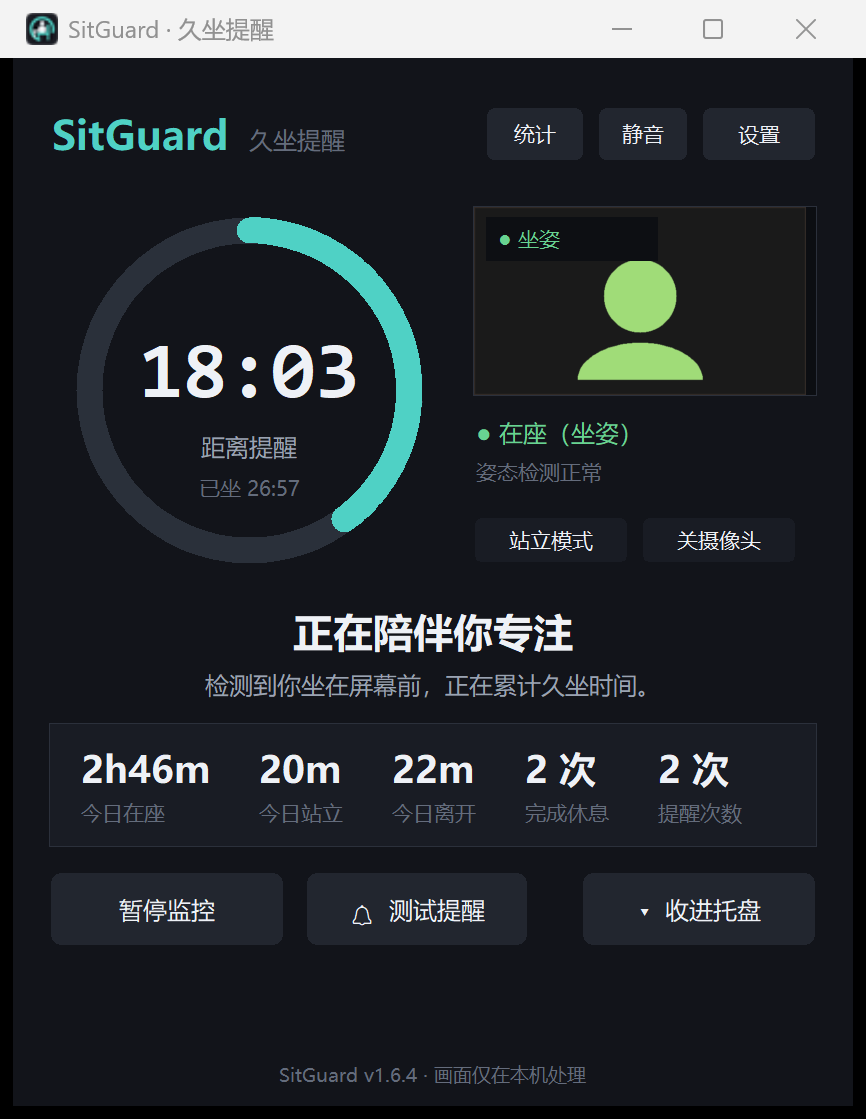
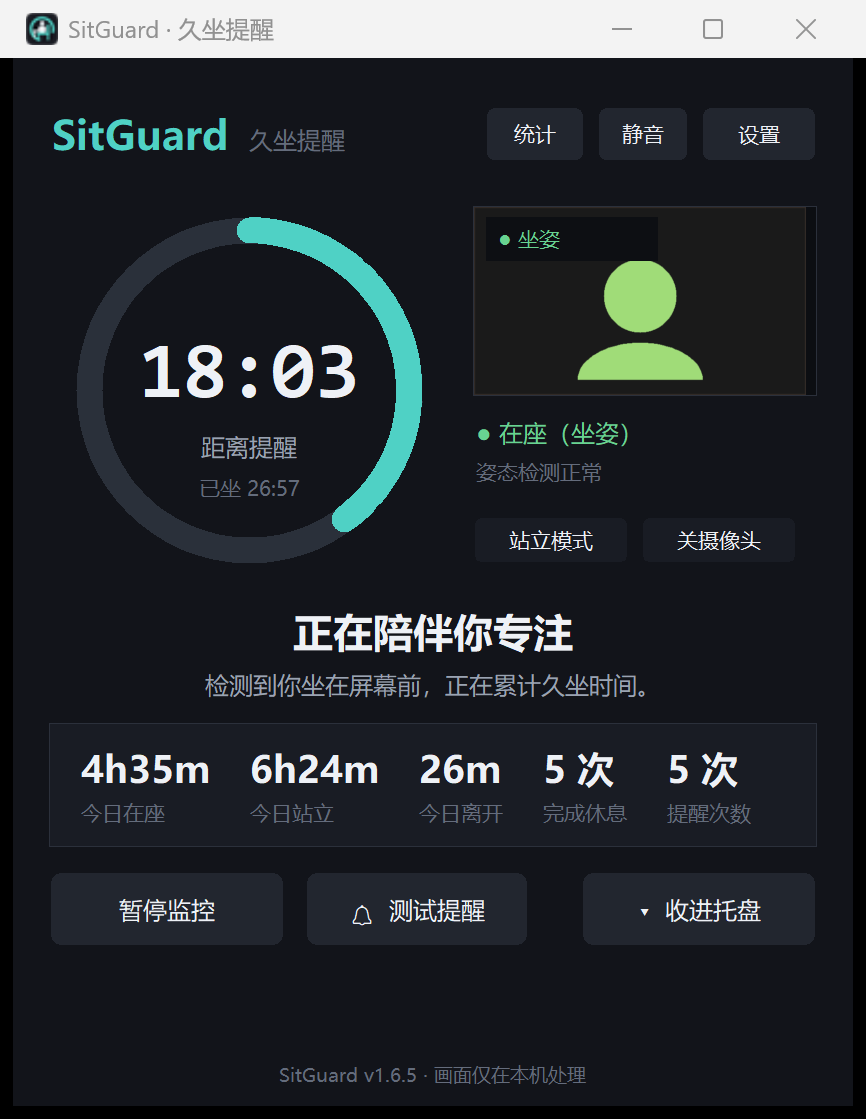
fix: leaving/looking down no longer counted as standing; repair history list on reopen
Require head or shoulder evidence before accepting a standing classification when calibrated, disable the out-of-frame standing grace unless standing calibration is out of frame, and keep the day list populated when the history window is closed and reopened.

diff --git a/sitguard/posture.py b/sitguard/posture.py
@@ -250,8 +250,11 @@ class PostureAnalyzer:
 
         candidate, reason = self._decide(now, pose, profile, face_present, person_present)
 
-        # 站起来后很快离开画面：给 20 秒“站立”宽限
-        if candidate == "unknown" and not face_present:
+        # 站起来后很快离开画面：仅在“未校准”或“站姿校准为离开画面”时给宽限。
+        # 站姿档案可见时，离开画面应判为 unknown/away，而不是站立。
+        if (candidate == "unknown" and not face_present
+                and (self.standing_profile is None
+                     or not self.standing_profile.visible)):
             if self._lost_after_rise_at and now - self._lost_after_rise_at <= 1.5:
                 self._grace_until = max(self._grace_until, now + 20)
             if now <= self._grace_until:
@@ -261,6 +264,19 @@ class PostureAnalyzer:
             return self.posture
         self._candidate_apply(now, candidate, reason)
         return self.posture
+
+    def _sitting_evidence(self, profile: PostureProfile) -> bool:
+        """头部或肩部仍在坐姿高度时，不要因为低头/腿伸直误判站立。"""
+        sit = self.sitting_profile
+        if sit is None:
+            return False
+        if (sit.face_y is not None and profile.face_y is not None
+                and profile.face_y > sit.face_y - 0.08):
+            return True
+        if (sit.shoulder_y is not None and profile.shoulder_y is not None
+                and profile.shoulder_y > sit.shoulder_y - 0.06):
+            return True
+        return False
 
     def _decide(self, now: float, pose: list[Landmark] | None,
                 profile: PostureProfile, face_present: bool,
@@ -274,6 +290,8 @@ class PostureAnalyzer:
                 if d_sit is not None and d_stand is not None:
                     margin = 0.035
                     if d_stand + margin < d_sit:
+                        if self._sitting_evidence(profile):
+                            return "sitting", "头部/肩部仍在坐姿高度"
                         return "standing", f"接近站姿档案（{d_stand:.2f}）"
                     if d_sit + margin < d_stand:
                         return "sitting", f"接近坐姿档案（{d_sit:.2f}）"
@@ -281,6 +299,17 @@ class PostureAnalyzer:
         # 1) 关键点直接判定
         vote = classify_pose(pose)
         if vote.posture != "unknown":
+            if vote.posture == "standing":
+                if profile.visible and self._sitting_evidence(profile):
+                    return "sitting", "关键点像站立，但头/肩仍在坐姿高度"
+                if not profile.visible:
+                    sit = self.sitting_profile
+                    if (sit is not None and sit.shoulder_y is not None
+                            and profile.shoulder_y is not None
+                            and profile.shoulder_y > sit.shoulder_y - 0.10):
+                        return "sitting", "看不到脸且肩部仍低"
+                    if profile.shoulder_y is None and sit is not None:
+                        return "unknown", "无脸也无肩，不能判站立"
             return vote.posture, vote.reason
         if vote.torso_ratio:
             self._torso_samples.append(vote.torso_ratio)

diff --git a/tests/test_engine.py b/tests/test_engine.py
@@ -210,6 +210,36 @@ class TestPosture(unittest.TestCase):
                      face_present=False, person_present=True)
         self.assertEqual(a.posture, "standing", a.reason)
 
+
+    def test_calibrated_leaving_is_not_standing(self):
+        a = PostureAnalyzer(standing_hold=1.0, sitting_hold=1.0)
+        a.set_calibration(
+            PostureProfile(face_y=0.75, face_h=0.3, shoulder_y=0.9, visible=True),
+            PostureProfile(face_y=0.35, face_h=0.25, shoulder_y=0.6, visible=True))
+        t = 0.0
+        for _ in range(5):
+            t += 1.0
+            a.update(t, pose=None,
+                     profile=PostureProfile(face_y=0.74, face_h=0.3, shoulder_y=0.89, visible=True),
+                     face_present=True, person_present=True)
+        for _ in range(8):
+            t += 1.0
+            a.update(t, pose=None, profile=PostureProfile(visible=False),
+                     face_present=False, person_present=True)
+        self.assertNotEqual(a.posture, "standing", a.reason)
+
+    def test_looking_down_with_straight_legs_is_sitting(self):
+        a = PostureAnalyzer(standing_hold=1.0, sitting_hold=1.0)
+        a.set_calibration(
+            PostureProfile(face_y=0.75, face_h=0.3, shoulder_y=0.9, visible=True),
+            PostureProfile(face_y=0.35, face_h=0.25, shoulder_y=0.6, visible=True))
+        t = 0.0
+        for _ in range(5):
+            t += 1.0
+            a.update(t, pose=standing_pose(),
+                     profile=PostureProfile(face_y=0.74, face_h=0.22, shoulder_y=0.9, visible=True),
+                     face_present=True, person_present=True)
+        self.assertEqual(a.posture, "sitting", a.reason)
     def test_far_sitting_not_standing(self):
         a = PostureAnalyzer(standing_hold=1.0, sitting_hold=1.0, min_samples=3)
         t = 0.0

diff --git a/sitguard/views.py b/sitguard/views.py
@@ -2,6 +2,7 @@
 
 from __future__ import annotations
 
+import logging
 import math
 import time
 import tkinter as tk
@@ -17,6 +18,8 @@ from .engine import Phase, Snapshot
 from .daylog import fmt_span
 from .i18n import fmt_duration, t
 from .posture import PostureProfile, median_profile
+
+log = logging.getLogger("sitguard.views")
 
 
 def arc_points(box: tuple[float, float, float, float], start_deg: float,
@@ -1561,7 +1564,7 @@ class HistoryWindow:
         tracker = self.app.activity
         now = time.time()
         days = tracker.all_days(now)
-        if days == self._tree_days:
+        if days == self._tree_days and self.tree.get_children():
             for item in self.tree.get_children():
                 key = str(self.tree.item(item, "values")[0])
                 totals = tracker.totals_for(key, now)
@@ -1589,6 +1592,8 @@ class HistoryWindow:
                 self.tree.selection_set(item)
                 self.tree.see(item)
                 break
+        if len(days) and not self.tree.get_children():
+            log.warning("历史列表为空，但活动数据有 %d 天", len(days))
         if len(self.tree.get_children()) > 7:
             if not self.tree_scroll.winfo_ismapped():
                 self.tree_scroll.pack(side="right", fill="y")

diff --git a/sitguard/camera.py b/sitguard/camera.py
@@ -403,6 +403,13 @@ class CameraWorker:
                             face_present=seen, person_present=person)
                     except Exception:  # noqa: BLE001
                         log.exception("姿态分析异常")
+                    if posture != self._last_posture:
+                        log.info(
+                            "姿态切换：%s → %s（%s）face_y=%s face_h=%s shoulder_y=%s",
+                            self._last_posture, posture, self.posture.reason,
+                            None if profile.face_y is None else round(profile.face_y, 3),
+                            None if profile.face_h is None else round(profile.face_h, 3),
+                            None if profile.shoulder_y is None else round(profile.shoulder_y, 3))
                     if self.on_posture and posture != self._last_posture:
                         self._last_posture = posture
                         try:

diff --git a/sitguard/i18n.py b/sitguard/i18n.py
@@ -79,8 +79,8 @@ _T = {
     "stats_no_record": ("该日期没有记录", "No record for this date"),
     "stats_bad_date": ("日期格式：YYYY-MM-DD", "Date format: YYYY-MM-DD"),
     "stats_future": ("不能查看未来日期", "Cannot view a future date"),
-    "footer": ("SitGuard v1.6.4 · 画面仅在本机处理",
-               "SitGuard v1.6.4 · Processed locally only"),
+    "footer": ("SitGuard v1.6.5 · 画面仅在本机处理",
+               "SitGuard v1.6.5 · Processed locally only"),
     "stand_mode": ("站立模式", "Stand mode"),
     "sit_down": ("坐下", "Sit down"),
     "stand": ("站立", "Stand"),

diff --git a/sitguard/__init__.py b/sitguard/__init__.py
@@ -1,5 +1,5 @@
 """SitGuard — 久坐提醒（摄像头在场检测）。"""
 
-__version__ = "1.6.4"
+__version__ = "1.6.5"
 APP_NAME = "SitGuard"
 APP_NAME_CN = "久坐提醒"

diff --git a/README_ZH.md b/README_ZH.md
@@ -62,7 +62,7 @@ English UI:
 
 | 功能 | 说明 |
 | --- | --- |
-| 坐/站识别 | 校准档案 + MediaPipe 姿态（腿可见时看膝角）+ 脸部/肩部高度变化 |
+| 坐/站识别 | 校准档案 + MediaPipe 姿态 + 脸部/肩部高度；离开画面算离开，不冒充站立；低头/前倾不会误判站立 |
 | 智能计时 | **只有坐姿才累计**；站起来立刻停表，坐下继续 |
 | 45 分钟提醒 | 到点全屏休息窗 + 提示音；可关闭全屏只响铃，5 分钟没站起来会再次提醒 |
 | 起身自动完成 | 站立 10 秒，或整个人离开画面 12 秒 → 自动完成休息 |

diff --git a/README.md b/README.md
@@ -16,7 +16,9 @@ as soon as you stand.
 
 - **Sit/stand detection** using MediaPipe Pose (33 landmarks) plus face and
   shoulder position, with an optional two-point calibration for your own
-  camera angle and body size.
+  camera angle and body size. Leaving the frame is classified as away, and
+  looking down or leaning forward no longer flips you to standing when your
+  head and shoulders are still at sitting height.
 - **Smart timing** — only sitting time counts; standing pauses the timer.
 - **At-a-glance today** — the main window shows today's sitting, standing,
   away, breaks and reminder counts.
